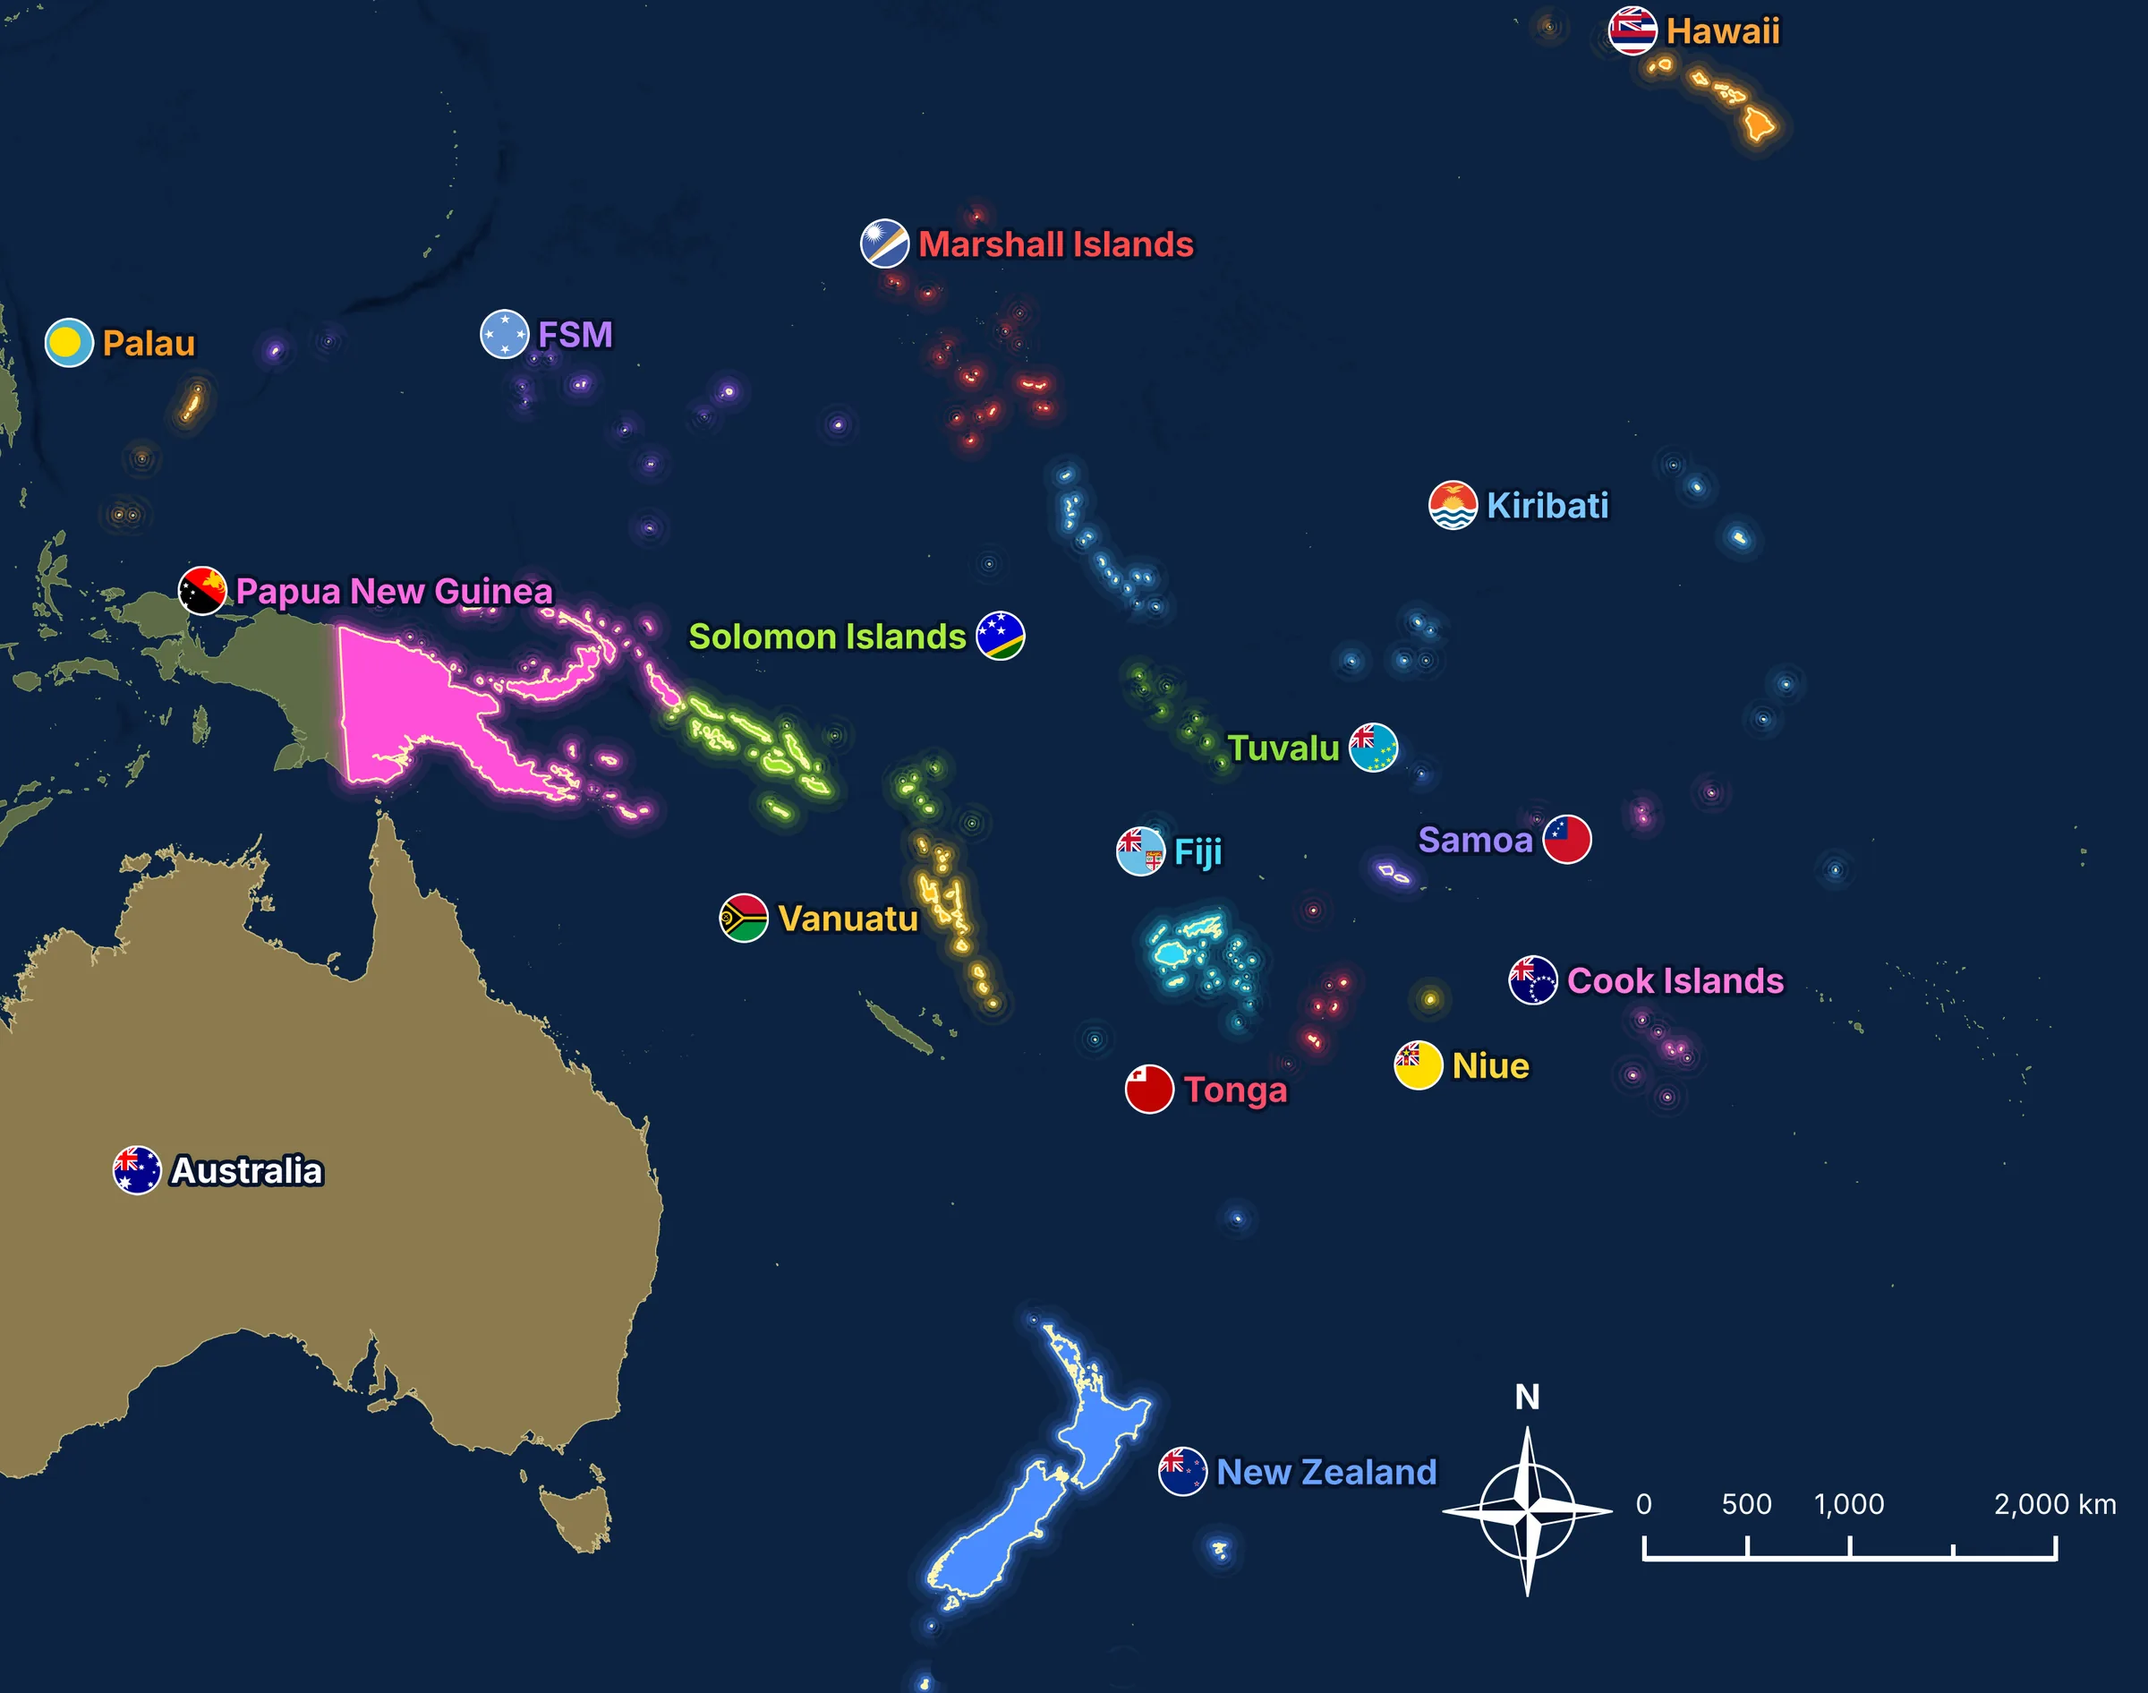
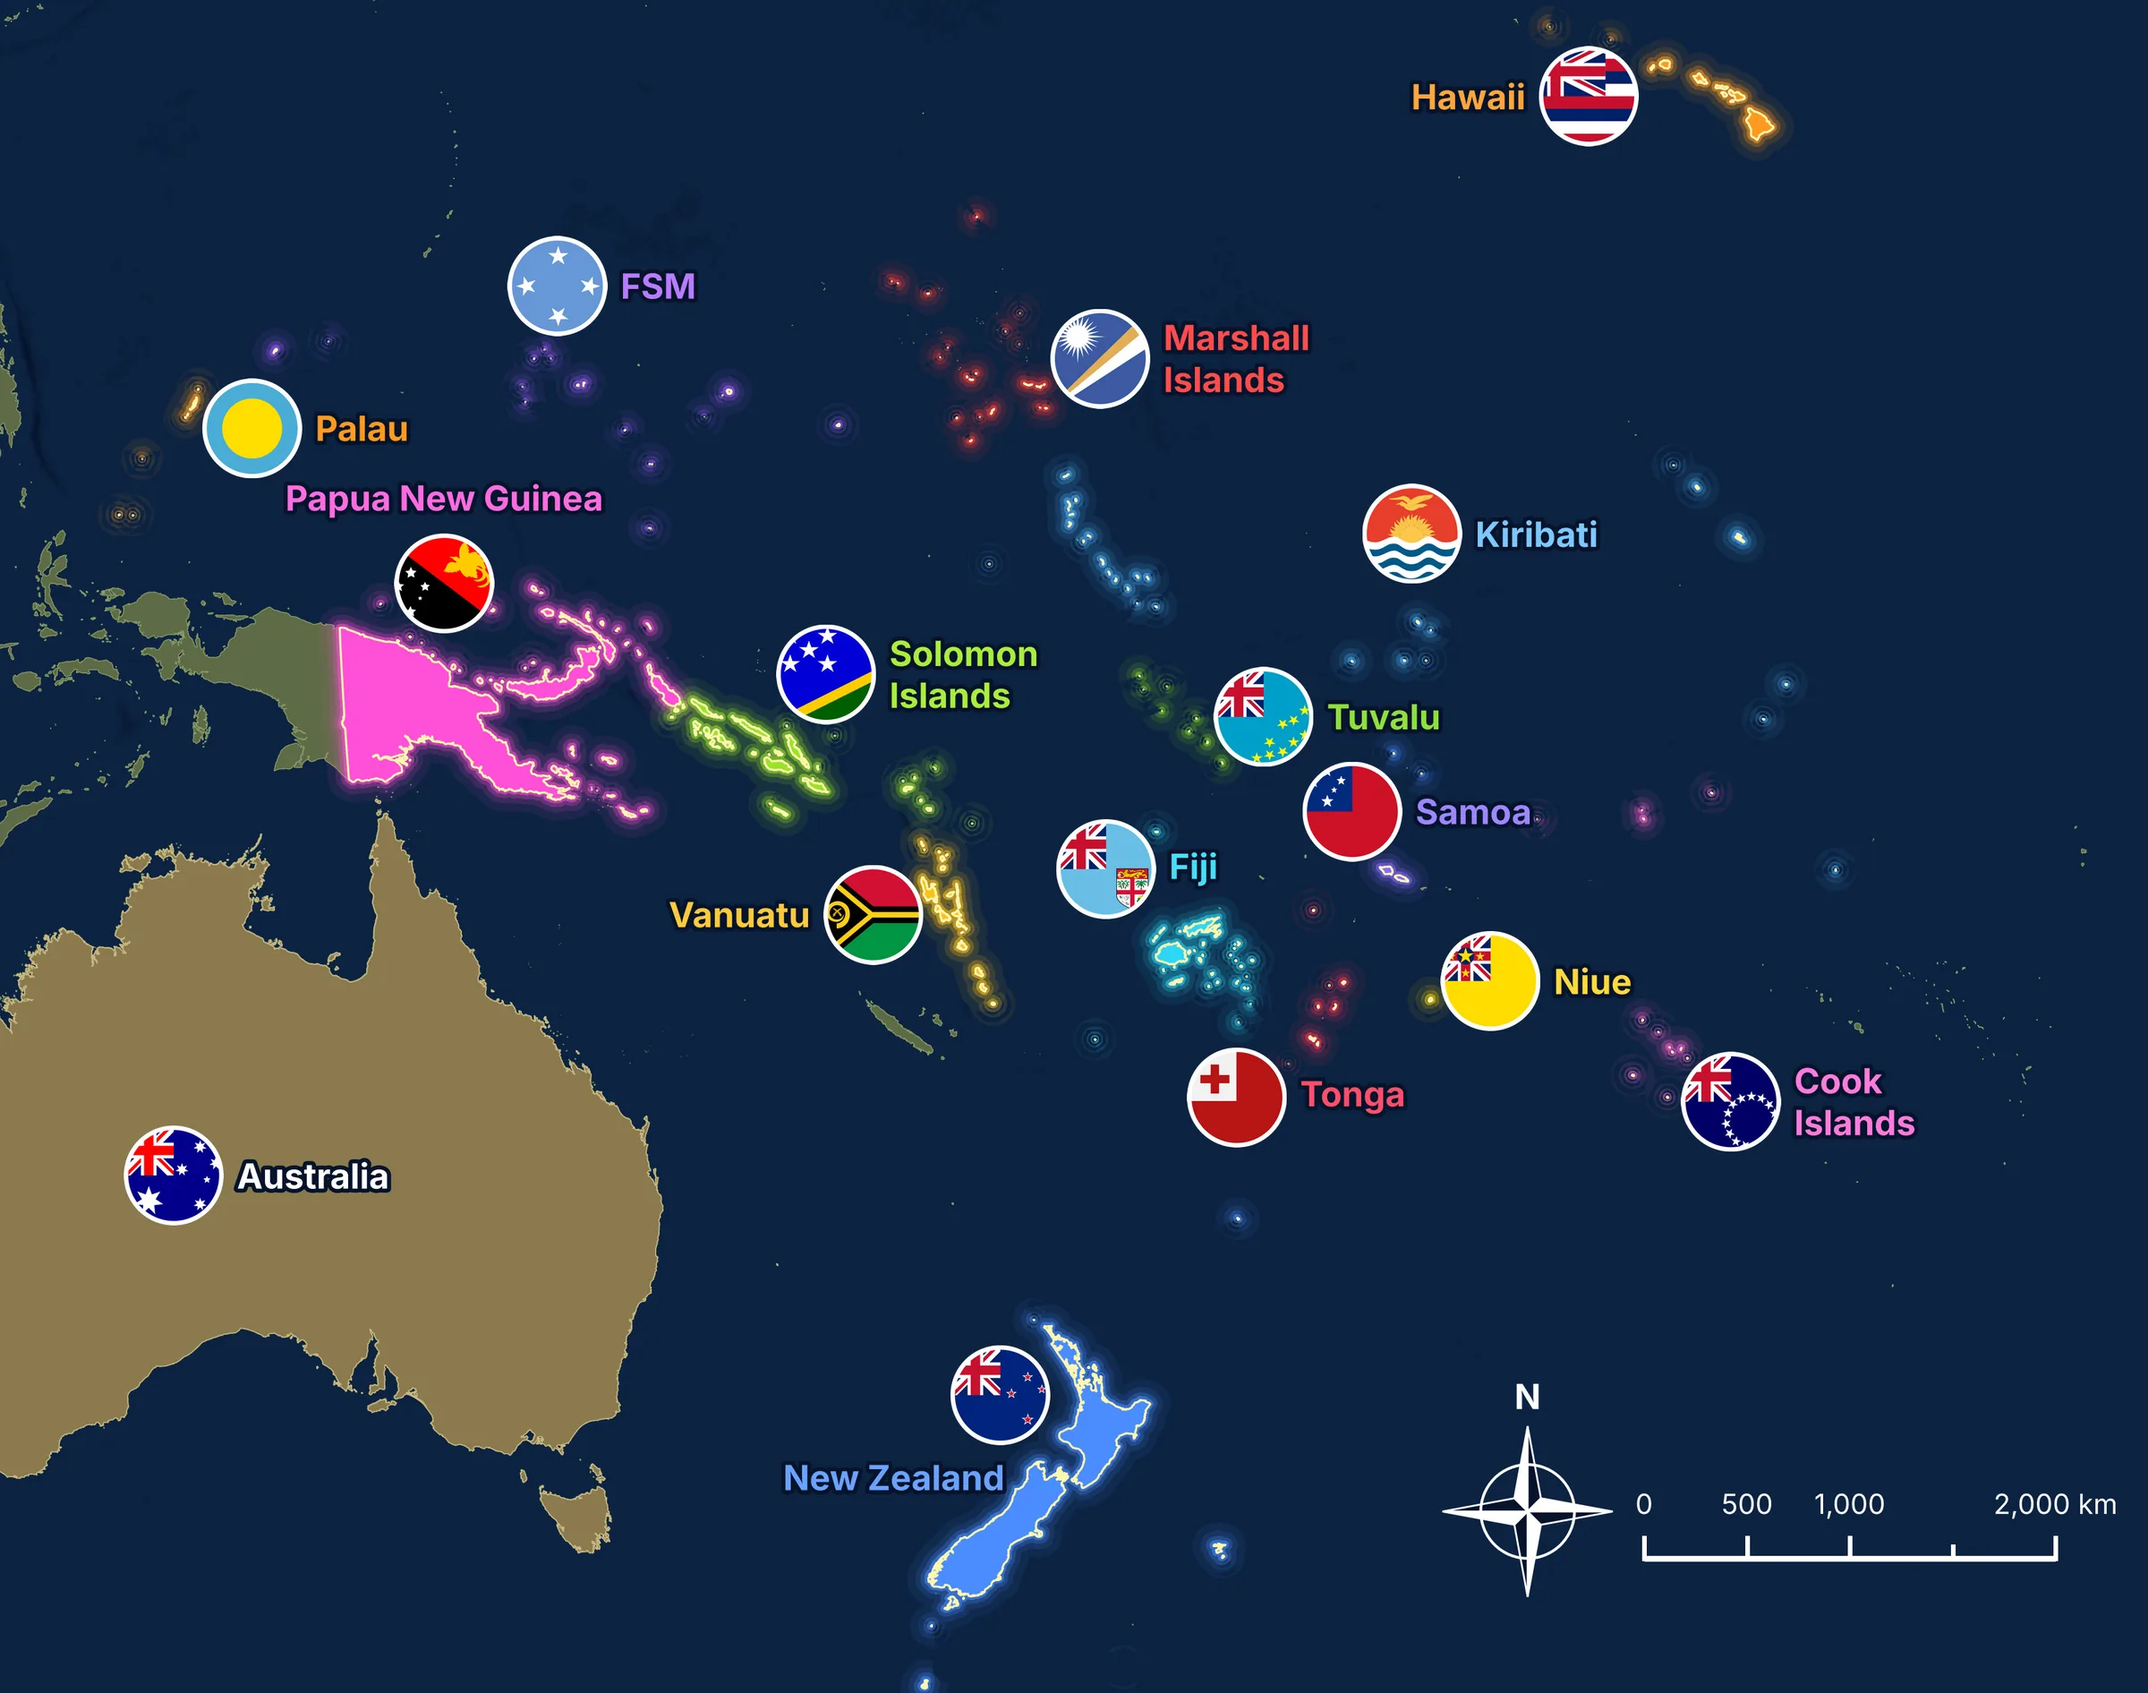
Regional dashboard: use revised hi-res Pacific map (v2f) and re-anchor scholar badges

diff --git a/js/pacific-scholars.js b/js/pacific-scholars.js
@@ -237,7 +237,7 @@
   // Badge anchors are measured in image pixels at the end of each label (side 'r') or
   // before its flag (side 'l'); badges live in the same coordinate space so they zoom with the image.
   const MAP_IMG = { src: 'img/regional/pacific-map.webp', w: 2400, h: 1891 };
-  const MAP_ANCHOR = {"PLW": [216, 383, 'r'], "FSM": [682, 371, 'r'], "MHL": [1332, 271, 'r'], "KIR": [1795, 564, 'r'], "SLB": [1145, 711, 'r'], "TUV": [1562, 834, 'r'], "WSM": [1778, 937, 'r'], "FJI": [1363, 951, 'r'], "VUT": [802, 1027, 'l'], "COK": [1992, 1094, 'r'], "TON": [1258, 1217, 'l']};
+  const MAP_ANCHOR = {"PLW": [454, 478, 'r'], "FSM": [774, 320, 'r'], "MHL": [1433, 422, 'r'], "KIR": [1783, 596, 'r'], "SLB": [1127, 776, 'r'], "TUV": [1606, 800, 'r'], "WSM": [1717, 907, 'r'], "FJI": [1357, 967, 'r'], "TON": [1567, 1221, 'r'], "COK": [2138, 1253, 'r'], "VUT": [749, 1023, 'l']};
   let mapSvg, mk = {};
   function setupMap() {
     const host = $('#ps-map');
@@ -250,7 +250,7 @@
     countries().forEach(c => {
       const a = MAP_ANCHOR[c.code]; if (!a) return;
       const g = svgEl('g', { class: 'ps-mk', tabindex: '0', role: 'button', 'data-code': c.code });
-      const pill = svgEl('rect', { class: 'ps-mk__pill', rx: 27, ry: 27, height: 58, stroke: COLORS[c.code] });
+      const pill = svgEl('rect', { class: 'ps-mk__pill', rx: 31, ry: 31, height: 64, stroke: COLORS[c.code] });
       const label = svgEl('text', { class: 'ps-mk__n', 'dominant-baseline': 'central' });
       g.append(pill, label);
       g.addEventListener('click', () => select(c.code));
@@ -305,8 +305,8 @@
       const o = mk[c.code]; if (!o) return;
       const txt = fmt(c.scholars);
       o.label.textContent = txt;
-      const w = 28 * txt.length + 34, x = o.a[2] === 'l' ? o.a[0] - 12 - w : o.a[0] + 12;
-      o.pill.setAttribute('x', x); o.pill.setAttribute('y', o.a[1] - 29); o.pill.setAttribute('width', w);
+      const w = 31 * txt.length + 36, x = o.a[2] === 'l' ? o.a[0] - 14 - w : o.a[0] + 14;
+      o.pill.setAttribute('x', x); o.pill.setAttribute('y', o.a[1] - 32); o.pill.setAttribute('width', w);
       o.label.setAttribute('x', x + w / 2); o.label.setAttribute('y', o.a[1] + 2); o.label.setAttribute('text-anchor', 'middle');
       o.g.setAttribute('aria-label', `${c.name}: ${txt} Indigenous scholars. ${state.sel === c.code ? 'Selected.' : ''} Activate to ${state.sel === c.code ? 'clear' : 'filter'}.`);
       o.g.setAttribute('aria-pressed', String(state.sel === c.code));

diff --git a/css/pacific-scholars.css b/css/pacific-scholars.css
@@ -156,7 +156,7 @@ a { color: var(--ps-teal-300); }
 .ps-map > svg { display: block; position: absolute; inset: 0; width: 100%; height: 100%; }
 .ps-mk { cursor: pointer; }
 .ps-mk__pill { fill: rgba(3, 19, 39, .9); stroke-width: 5; filter: drop-shadow(0 2px 6px rgba(0,0,0,.45)); transition: fill .2s ease; }
-.ps-mk__n { fill: #fff; font-family: var(--ps-sans); font-weight: 700; font-size: 46px; pointer-events: none; font-variant-numeric: tabular-nums; }
+.ps-mk__n { fill: #fff; font-family: var(--ps-sans); font-weight: 700; font-size: 51px; pointer-events: none; font-variant-numeric: tabular-nums; }
 .ps-mk:hover .ps-mk__pill { fill: rgba(20, 52, 92, .96); }
 .ps-mk:focus { outline: none; }
 .ps-mk:focus-visible .ps-mk__pill, .ps-mk.is-selected .ps-mk__pill { stroke: var(--ps-gold-400) !important; stroke-width: 7; fill: rgba(40, 30, 5, .92); }
